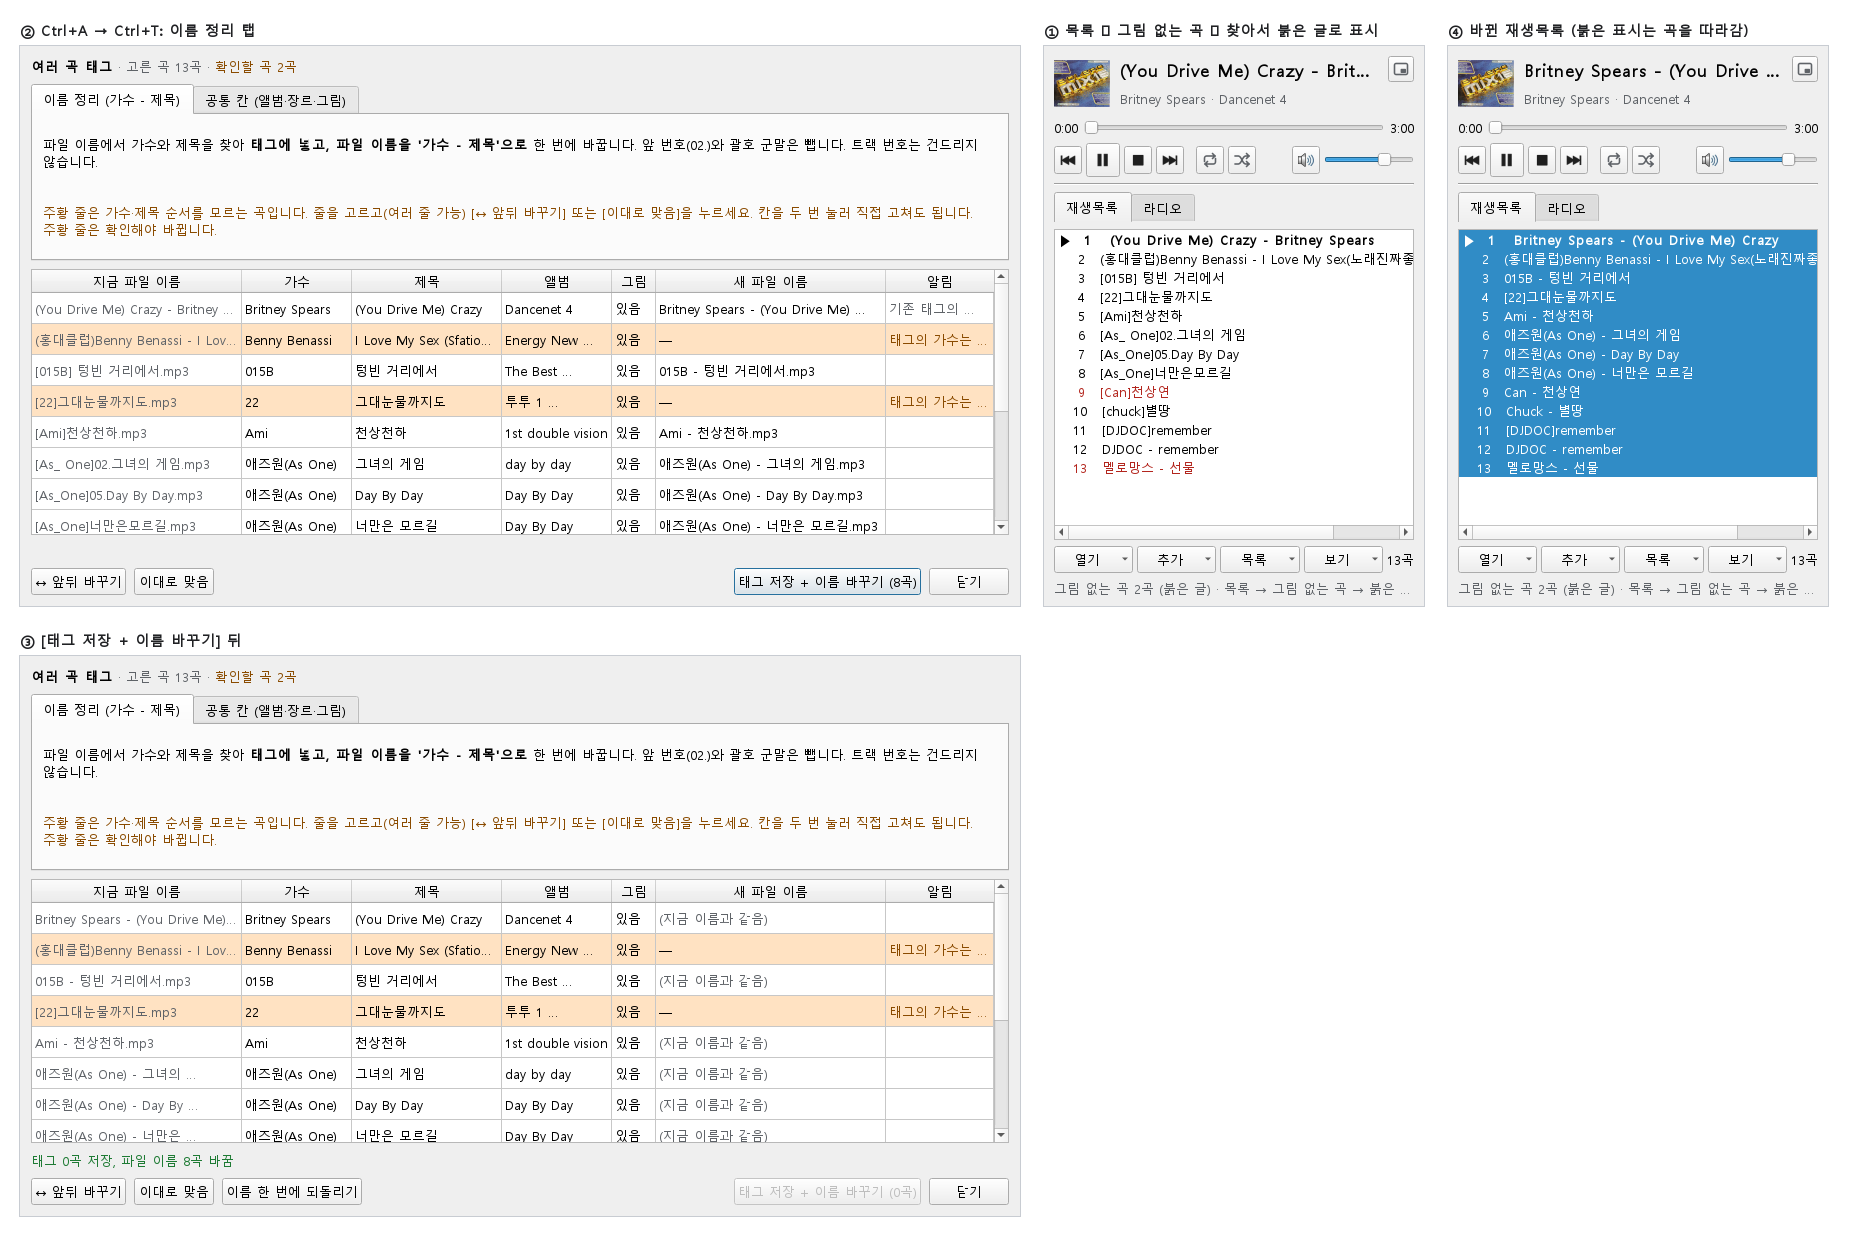
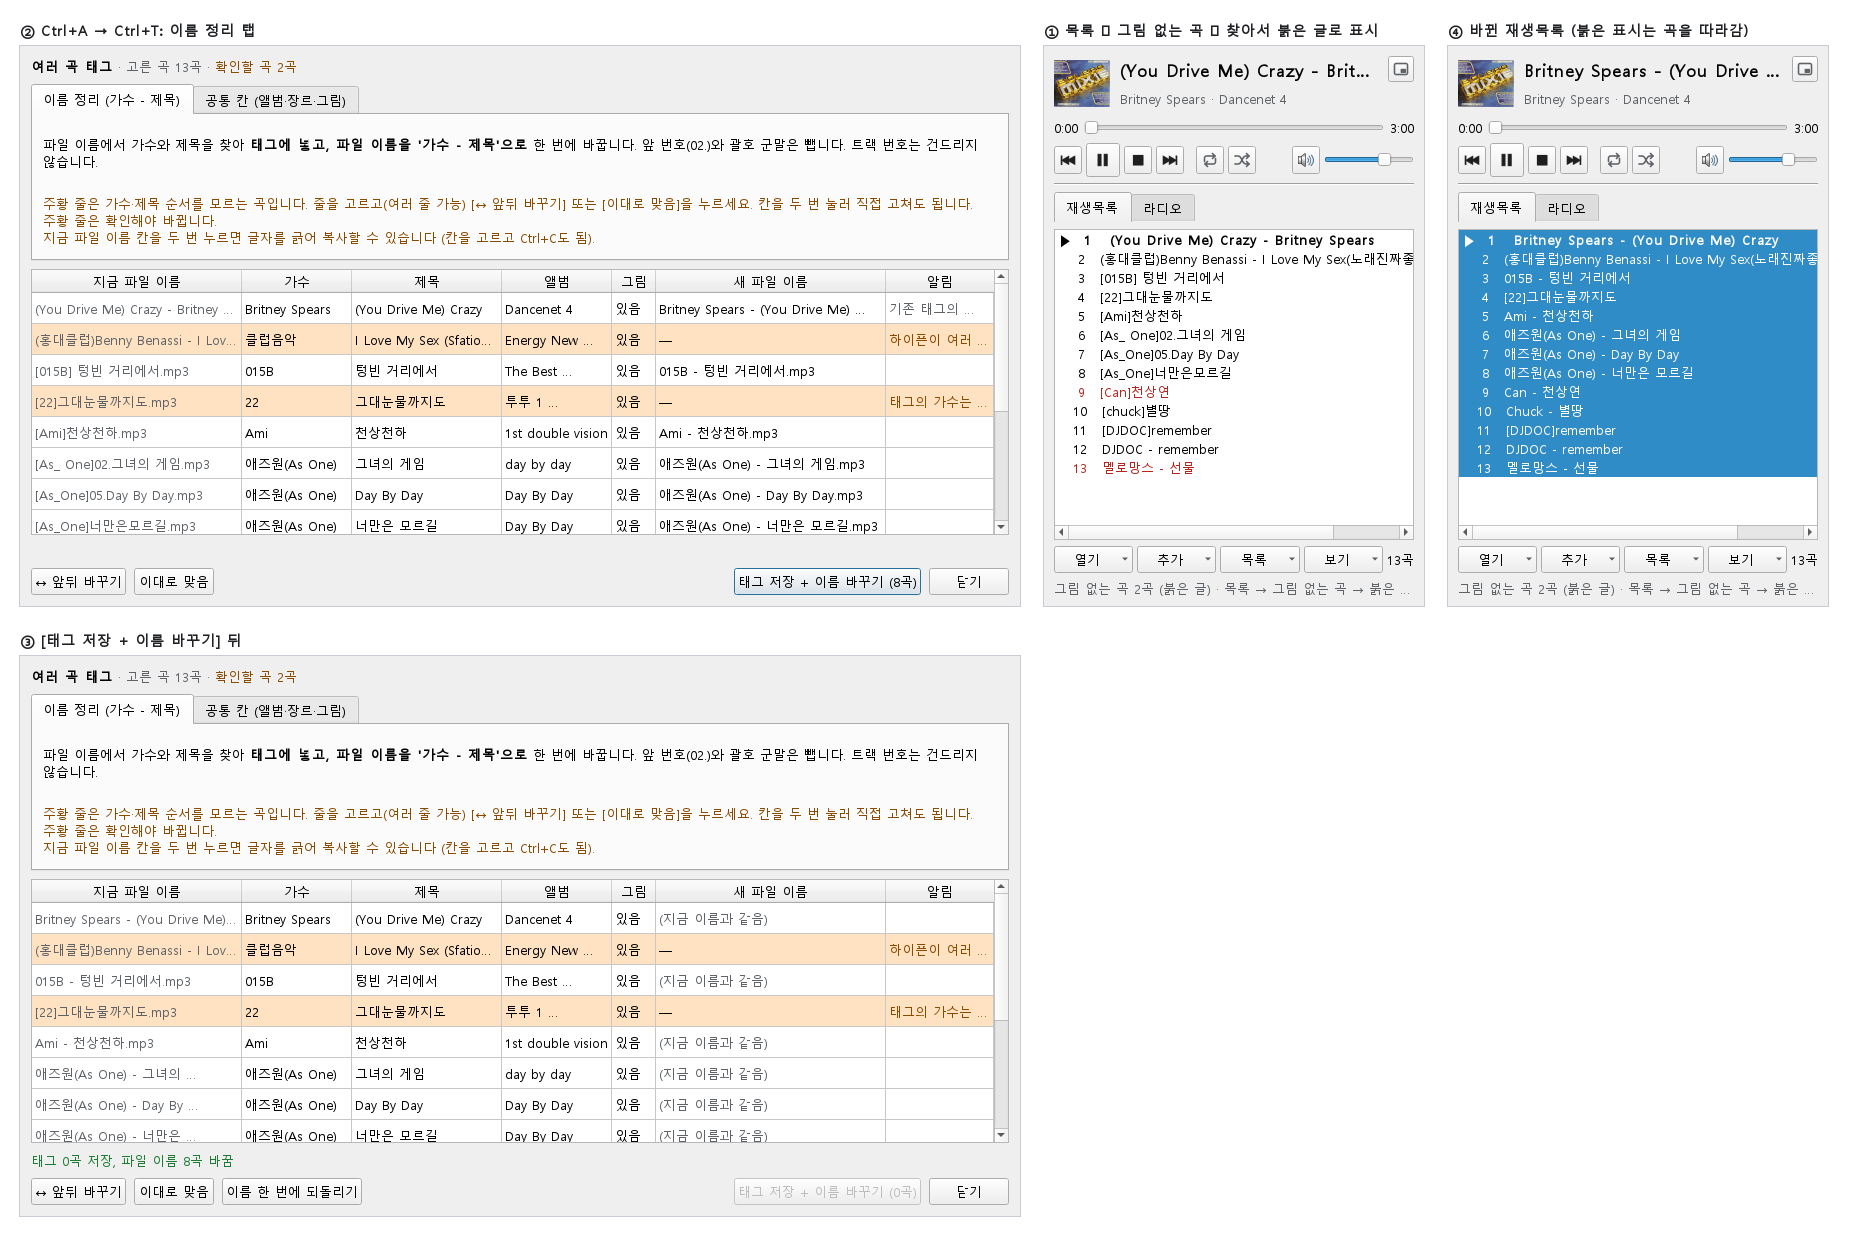
fix(5-D): names with several hyphens ask for a check; file names can be selected and copied

diff --git a/funplayer/core/bulktag.py b/funplayer/core/bulktag.py
@@ -8,10 +8,11 @@ import re
 
 FIELDS = ("artist", "title", "album", "year", "genre", "track")
 
-SURE, BY_TAG, BY_KNOWN, UNSURE, NO_ARTIST, MISMATCH = "sure", "tag", "known", "unsure", "no_artist", "mismatch"
+SURE, BY_TAG, BY_KNOWN, UNSURE, NO_ARTIST, MISMATCH, MULTI = (
+    "sure", "tag", "known", "unsure", "no_artist", "mismatch", "multi")
 NOTES = {SURE: "", BY_TAG: "기존 태그의 가수와 같음 → 앞뒤 바꿈", BY_KNOWN: "다른 곡에서 가수로 쓰임 → 앞뒤 바꿈",
          UNSURE: "제목-가수로 봤습니다 · 확인", NO_ARTIST: "가수를 모름 · 직접 입력",
-         MISMATCH: "태그의 가수는 '{tag}' · 확인"}
+         MISMATCH: "태그의 가수는 '{tag}' · 확인", MULTI: "하이픈이 여러 개 · 확인"}
 MERGED_NOTE = "가수 이름 겹침 → 하나로"
 UNIFIED_NOTE = "같은 가수 → {name}로 통일"
 
@@ -116,25 +117,58 @@ class Tidy:
 
     @property
     def unsure(self) -> bool:
-        return self.how in (UNSURE, NO_ARTIST, MISMATCH)
+        return self.how in (UNSURE, NO_ARTIST, MISMATCH, MULTI)
 
     def __repr__(self) -> str:
         return f"Tidy({self.artist!r}, {self.title!r}, {self.how!r})"
 
 
-def _split(stem: str) -> tuple[str, str, str]:
-    """(왼쪽, 오른쪽, 모양): 다듬기 전 조각. 모양: bracket=[가수]제목, spaced=가수 - 제목, bare=제목-가수, single."""
+def _fine(piece: str) -> list[str]:
+    """빈칸 없는 하이픈으로 더 나눌 수 있으면 나눈다. 한쪽이 한 글자면(Jay-Z) 나누지 않는다."""
+    parts = _BARE_HYPHEN.split(piece)
+    if len(parts) >= 2 and all(len(clean_title(p)) >= 2 for p in parts):
+        return parts
+    return [piece]
+
+
+def _split(stem: str) -> tuple[str, str, str, list[list[str]]]:
+    """(왼쪽, 오른쪽, 모양, 조각): 다듬기 전 조각. 모양: bracket=[가수]제목, spaced=가수 - 제목, bare=제목-가수,
+    multi=하이픈으로 셋 이상 나뉨(조각: 빈칸 하이픈 조각마다 그 안의 빈칸 없는 하이픈 조각), single."""
     m = _LEAD_BRACKET.match(stem)
     if m and _tidy(m.group(1)) and clean_title(stem[m.end():]):
-        return m.group(1), _SPACED_HYPHEN.split(stem[m.end():])[0], "bracket"
+        return m.group(1), _SPACED_HYPHEN.split(stem[m.end():])[0], "bracket", []
     body = _LEAD_PAREN.sub("", stem)
-    parts = [p for p in _SPACED_HYPHEN.split(body) if clean_title(p)]
-    if len(parts) >= 2:
-        return parts[0], parts[1], "spaced"
-    bare = _BARE_HYPHEN.split(body)
-    if len(bare) == 2 and all(len(clean_title(p)) >= 2 for p in bare):
-        return bare[0], bare[1], "bare"
-    return "", body, "single"
+    spaced = [p for p in _SPACED_HYPHEN.split(body) if clean_title(p)]
+    fine = [_fine(p) for p in spaced]
+    if sum(len(f) for f in fine) >= 3:
+        return "", "", "multi", fine
+    if len(spaced) == 2:
+        return spaced[0], spaced[1], "spaced", fine
+    if fine and len(fine[0]) == 2:
+        return fine[0][0], fine[0][1], "bare", fine
+    return "", body, "single", fine
+
+
+def _multi(fine: list[list[str]], tag: str, known: list[str]) -> Tidy:
+    """하이픈이 여럿인 이름: 기존 태그 → 다른 곡의 가수로 가수 조각을 찾고, 그 옆 조각을 제목으로. 늘 확인을 받는다."""
+    spaced = ["-".join(f) for f in fine]
+
+    def is_artist(text: str) -> bool:
+        name = clean_artist(text)
+        return _same(tag, name) or any(_same(k, name) for k in known)
+
+    for si, piece in enumerate(spaced):   # 빈칸 하이픈 조각 하나가 통째로 가수
+        if len(spaced) >= 2 and is_artist(piece):
+            other = spaced[si + 1] if si + 1 < len(spaced) else spaced[si - 1]
+            return Tidy(clean_artist(piece), clean_title(other), SURE if len(spaced) == 2 else MULTI)
+    for f in fine:                         # 빈칸 없는 하이픈 조각 하나가 가수
+        for qi, piece in enumerate(f):
+            if len(f) >= 2 and is_artist(piece):
+                other = f[qi - 1] if qi > 0 else f[qi + 1]   # 빈칸 없는 하이픈은 '제목-가수'가 기본
+                return Tidy(clean_artist(piece), clean_title(other), MULTI)
+    if len(spaced) >= 2:                   # 실마리가 없으면 '가수 - 제목'
+        return Tidy(clean_artist(spaced[0]), clean_title(spaced[1]), MULTI)
+    return Tidy(clean_artist(fine[0][1]), clean_title(fine[0][0]), MULTI)   # '제목-가수-…'
 
 
 def tidy_names(stems: list[str], tag_artists: list[str], tag_titles: list[str] | None = None) -> list[Tidy]:
@@ -160,15 +194,18 @@ def tidy_names(stems: list[str], tag_artists: list[str], tag_titles: list[str] |
 
 def _decide(stems: list[str], tags: list[str]) -> list[Tidy]:
     splits = [_split(s) for s in stems]
-    sure_left = [clean_artist(left) if kind in ("bracket", "spaced") else "" for left, _, kind in splits]
+    sure_left = [clean_artist(left) if kind in ("bracket", "spaced") else "" for left, _, kind, _ in splits]
     out = []
-    for i, ((left, right, kind), tag) in enumerate(zip(splits, tags)):
+    for i, ((left, right, kind, fine), tag) in enumerate(zip(splits, tags)):
         if kind == "single":
             out.append(Tidy(tag, clean_title(right), SURE if tag else NO_ARTIST))
             continue
         # 이 곡 자신의 조각은 빼고, 다른 곡의 가수 태그와 '가수 - 제목'·'[가수]'의 가수만 아는 가수로 친다
         known = [a for j, a in enumerate(tags) if a and j != i]
         known += [a for j, a in enumerate(sure_left) if a and j != i]
+        if kind == "multi":
+            out.append(_multi(fine, tag, known))
+            continue
         a_raw, t_raw = (right, left) if kind == "bare" else (left, right)
         artist, title = clean_artist(a_raw), clean_title(t_raw)
         swapped = Tidy(clean_artist(t_raw), clean_title(a_raw), SURE)

diff --git a/tests/test_bulktag.py b/tests/test_bulktag.py
@@ -1,5 +1,5 @@
 from funplayer.core.bulktag import (
-    BY_KNOWN, BY_TAG, NO_ARTIST, SURE, UNSURE, canon, clean_artist, merge_artist, split_alias, tidy_names,
+    BY_KNOWN, BY_TAG, MULTI, NO_ARTIST, SURE, UNSURE, canon, clean_artist, merge_artist, split_alias, tidy_names,
 )
 
 
@@ -13,7 +13,7 @@ def test_tidy_user_shapes():
                 "[As_ One]02.그녀의 게임"])
     assert got == [("멜로망스", "선물", SURE), ("015B", "텅빈 거리에서", SURE), ("Ami", "천상천하", SURE),
                    ("멜로망스", "사랑인가봐", SURE), ("버스커버스커", "벚꽃엔딩", UNSURE),
-                   ("Benny Benassi", "I Love My Sex", SURE), ("As One", "그녀의 게임", SURE)]
+                   ("Benny Benassi", "I Love My Sex", MULTI), ("As One", "그녀의 게임", SURE)]
 
 
 def test_tidy_reversed_spaced_fixed_by_known_artist():
@@ -96,3 +96,18 @@ def test_tag_spelling_preferred_and_mismatch_asks():
     assert (got[1].artist, got[1].title) == ("Britney Spears", "(You Drive Me) Crazy")
     assert got[2].how == MISMATCH and got[2].unsure and "투투" in got[2].note
     assert got[3].artist == "Chuck" and got[3].note == ""
+
+
+def test_many_hyphens_find_artist_piece_and_ask():
+    names = ["김건모 - 잘못된 만남 - Remix", "Remix - 김건모 - 잘못된 만남", "김건모-잘못된 만남 - 1995",
+             "잘못된 만남-김건모-1995", "김건모 - 핑계"]
+    got = tidy(names)
+    assert got[:4] == [("김건모", "잘못된 만남", MULTI)] * 4
+    assert got[4] == ("김건모", "핑계", SURE)
+
+
+def test_hyphen_inside_name_kept():
+    assert tidy(["Jay-Z - Empire State"]) == [("Jay-Z", "Empire State", SURE)]
+    got = tidy(["김건모 - 잘못된 만남-리믹스", "김건모 - 핑계"])
+    assert got[0] == ("김건모", "잘못된 만남-리믹스", SURE)
+    assert tidy(["김건모 - 잘못된 만남-리믹스"])[0][2] == MULTI      # 실마리가 없으면 확인

diff --git a/tests/test_bulk_dialog.py b/tests/test_bulk_dialog.py
@@ -208,3 +208,20 @@ def test_red_mark_follows_rename(panel):
     p.refresh()
     row = [t.title for t in p.controller.playlist.tracks].index("가수 - a")
     assert red(p, row)
+
+
+def test_file_name_can_be_selected_and_copied(rig):
+    from PyQt5.QtWidgets import QApplication, QLineEdit
+    from funplayer.ui.bulk_dialog import COL_FILE
+    d, _, _ = rig
+    item = d.table.item(1, COL_FILE)
+    d.table.setCurrentItem(item)
+    d.table.editItem(item)
+    editor = d.table.findChild(QLineEdit)
+    assert editor is not None and editor.isReadOnly() and editor.text() == "[015B] 텅빈 거리에서.mp3"
+    editor.setText("바꿔 봄")          # 읽기 전용이라 실제로는 못 치지만, 넣어도 값은 그대로
+    d.table.closePersistentEditor(item)
+    d.table.setFocus()
+    assert cell(d, 1, COL_FILE) == "[015B] 텅빈 거리에서.mp3"
+    d.copy_cell()
+    assert QApplication.clipboard().text() == "[015B] 텅빈 거리에서.mp3"
